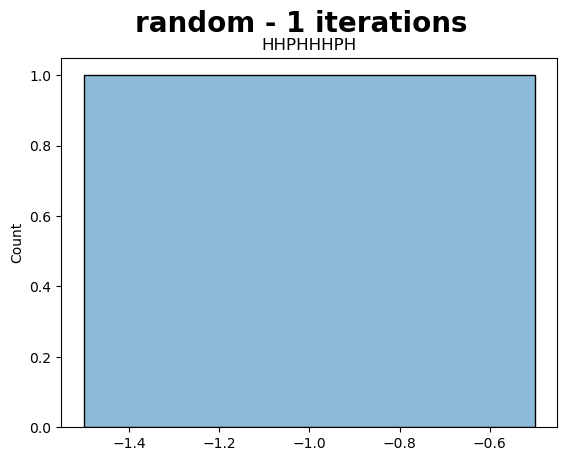
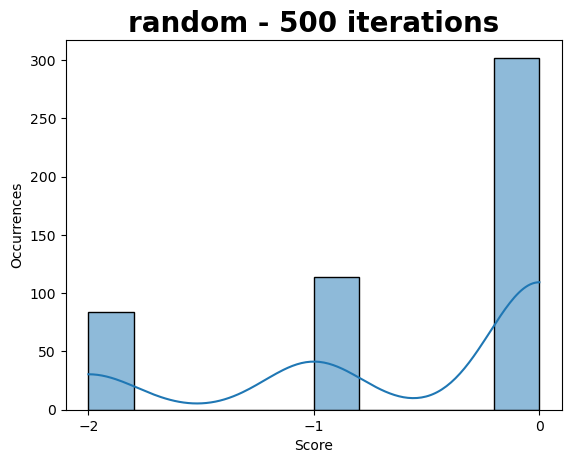
histo plot

diff --git a/main.py b/main.py
@@ -4,6 +4,7 @@ from code.algorithms import sa
 from code.algorithms import depth_first
 from code.visualizations import visualize
 import matplotlib.pyplot as plt
+from matplotlib.ticker import MaxNLocator
 from sys import argv
 import seaborn as sns
 
@@ -49,9 +50,9 @@ def run(protein_file, iterations=100, algorithm="random", rules=False, show_vis=
         grid_obj.output_to_csv(filename)
 
     # Plot histogram of the scores for a specified protein
-    # path_to_file = f"data/output/{algorithm}/graphs/{input_file}"
-    # title = f"{algorithm} - {iterations} iterations"
-    # plot_hist(scores, path_to_file, title, grid_obj.protein)
+    path_to_file = f"data/output/{algorithm}/graphs/{input_file}"
+    title = f"{algorithm} - {iterations} iterations"
+    plot_hist(scores, path_to_file, title, grid_obj.protein)
 
     # Display rules if requested
     if rules:
@@ -66,16 +67,20 @@ if __name__ == "__main__":
     filename = argv[1]
     protein_file = f"data/input/{filename}.txt"
     
-def plot_hist(scores, filename, title, protein):
+def plot_hist(scores, filename, title, protein, iterations=100):
     """
-    This function plots a histogram of all all the achieved scores (x-axis)
+    This function plots a histogram of all the achieved scores (x-axis)
     for a specified algorithm that is applied and their occurences (y-axis).
     """
-    histplot = sns.histplot(scores, kde=True)
-    plt.title(protein)
-    fig = histplot.get_figure()
-    fig.suptitle(title, fontsize=20, weight='bold')
+    fig, ax = plt.subplots()
+    sns.histplot(scores, kde=True, bins=10, ax=ax)
+    ax.set_title(title, fontsize=20, weight='bold')
+    ax.set_xlabel('Score')
+    ax.set_ylabel('Occurrences')
+    ax.xaxis.set_major_locator(MaxNLocator(integer=True))
     fig.savefig(f"{filename}.png", bbox_inches='tight')
     plt.show()
 
-run(protein_file, iterations=10, algorithm='sa', show_vis=True)
+
+
+run(protein_file, iterations=500, algorithm='random', show_vis=False)

diff --git a/code/algorithms/sa.py b/code/algorithms/sa.py
@@ -46,17 +46,17 @@ class SA(randomise.Random):
             new_protein_obj = copy.deepcopy(current_configuration)
             new_protein_dict= new_protein_obj.amino_acids
             i, j = random.sample(range(len(self.grid.amino_acids)), 2)
-            new_protein_dict[i], new_protein_dict[j] = new_protein_dict[j], new_protein_dict[i]
-
+            new_protein_dict[i] , new_protein_dict[j] = new_protein_dict[j], new_protein_dict[i]
+            print(new_protein_dict)
             # Calculate the score of the new ordered dictionary (protein)
             new_score = new_protein_obj.compute_score()
             print(f'NEW SCORE IS {new_score}')
-            score_diff = abs(current_score - new_score)
+            score_diff = new_score - current_score
             print(f'SCORE DIFFERENCE IS {score_diff}')
 
             if score_diff > self.x:
                 # Calculate the acceptance probability based on the difference in score and current temperature
-                acceptance_probability = math.exp(-score_diff / current_temperature)
+                acceptance_probability = math.exp((new_score - current_score) / current_temperature)
                 acceptance_probability = round(acceptance_probability, 2)
                 print('ik kom in de score_diff if statement!')
                 # Also giving worse configuration a chance of acceptance 
@@ -82,6 +82,7 @@ class SA(randomise.Random):
                 current_temperature *= self.rate_of_decrease
             if self.cooling == 'adaptive':
                 pass 
+        
 
         print(f'best configuration is {self.best_configuration}')
         print(f'best score is {self.best_score}')
